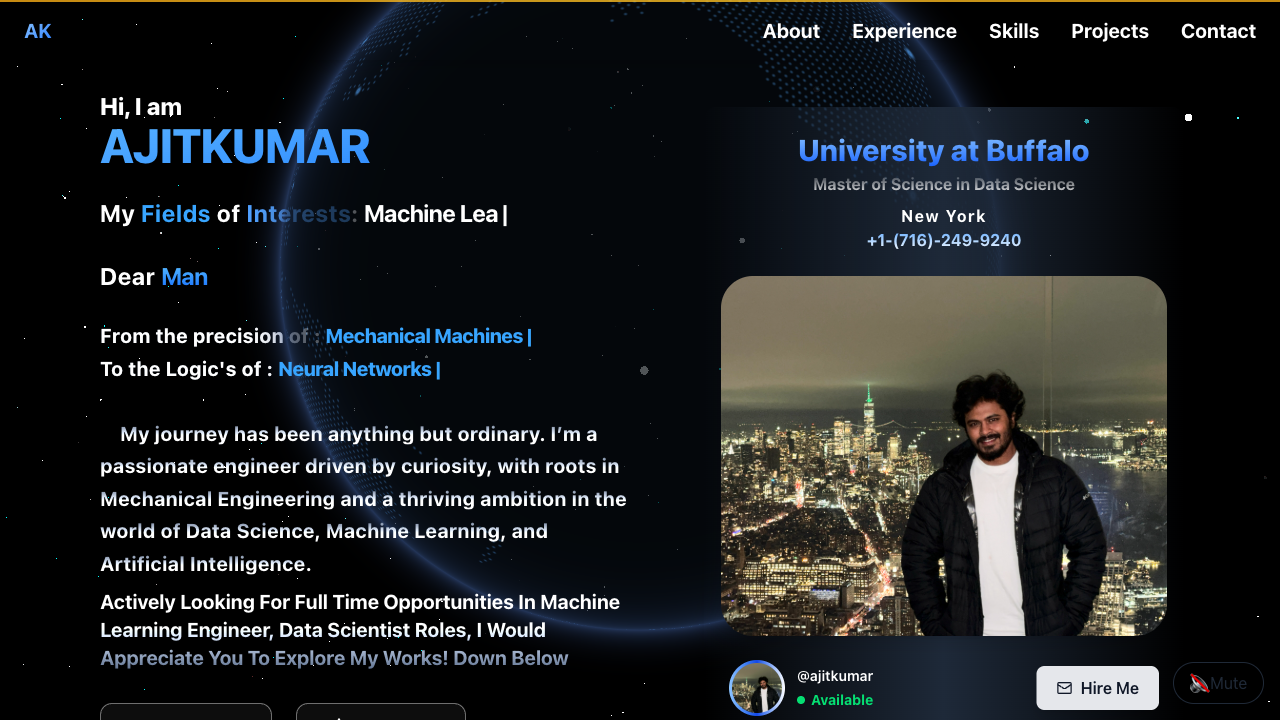
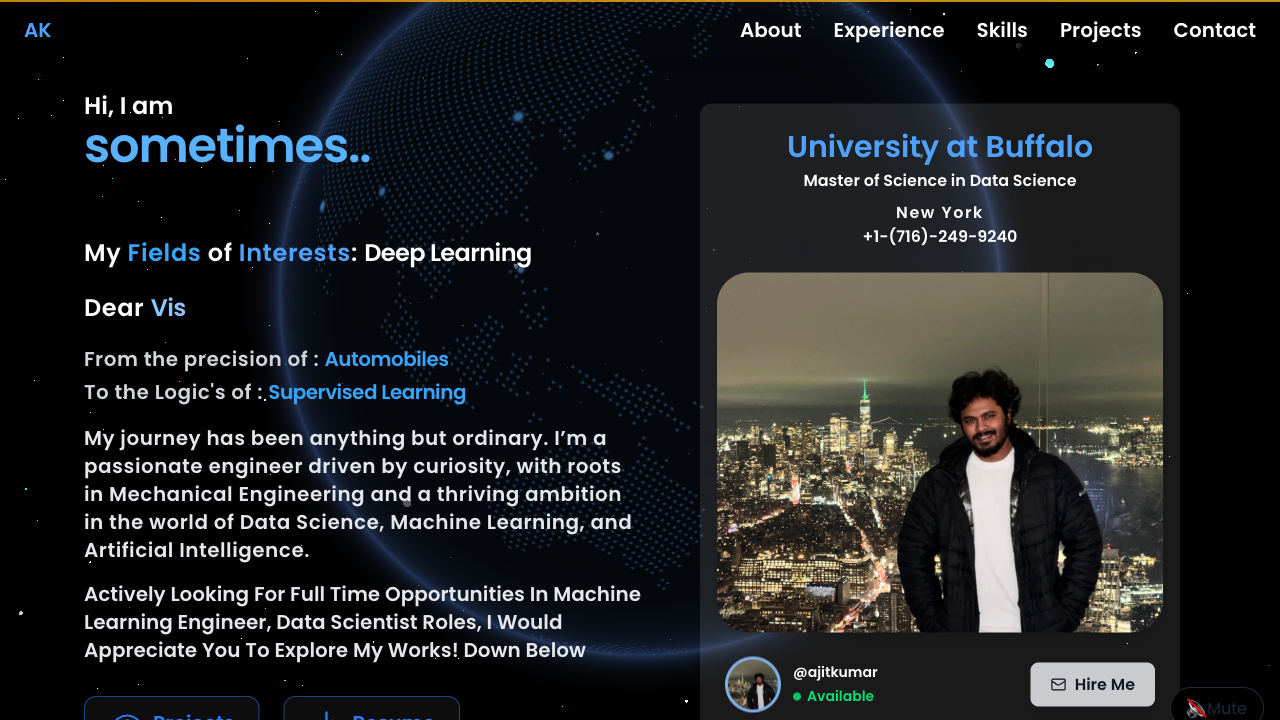
Astro migration (#19)
* Render

* Update

* Update

diff --git a/src/components/ui/globe.tsx b/src/components/ui/globe.tsx
@@ -116,19 +116,23 @@ export function Globe({
     >
       <canvas
         className={cn(
-          "size-full opacity-0 transition-opacity duration-300 [contain:layout_paint_size]"
+          "size-full touch-none opacity-0 transition-opacity duration-300 [contain:layout_paint_size]"
         )}
         ref={canvasRef}
         onPointerDown={(e) => {
+          e.currentTarget.setPointerCapture(e.pointerId)
           pointerInteracting.current = e.clientX
           updatePointerInteraction(e.clientX)
         }}
-        onPointerUp={() => updatePointerInteraction(null)}
-        onPointerOut={() => updatePointerInteraction(null)}
-        onMouseMove={(e) => updateMovement(e.clientX)}
-        onTouchMove={(e) =>
-          e.touches[0] && updateMovement(e.touches[0].clientX)
-        }
+        onPointerUp={(e) => {
+          e.currentTarget.releasePointerCapture(e.pointerId)
+          updatePointerInteraction(null)
+        }}
+        onPointerCancel={(e) => {
+          e.currentTarget.releasePointerCapture(e.pointerId)
+          updatePointerInteraction(null)
+        }}
+        onPointerMove={(e) => updateMovement(e.clientX)}
       />
     </div>
   )
